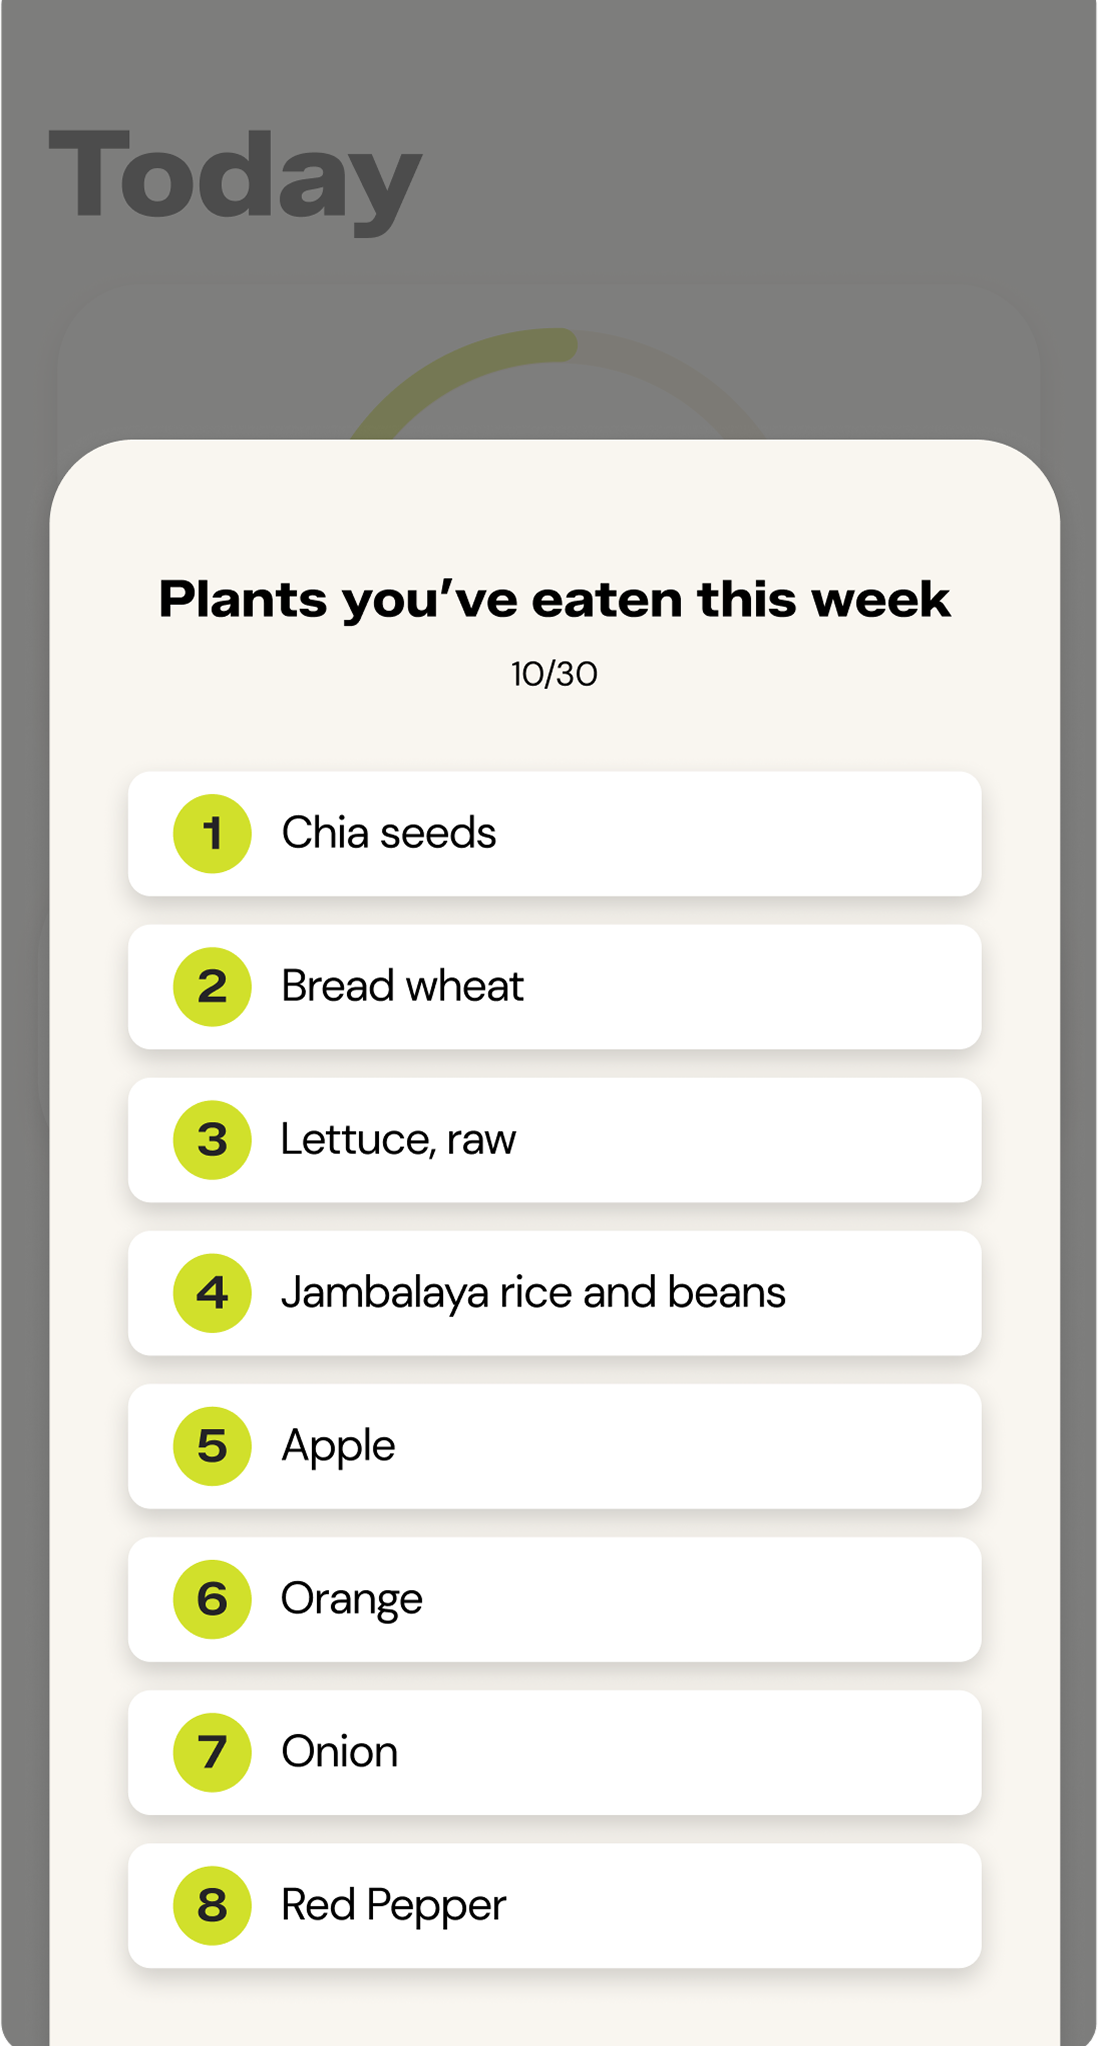
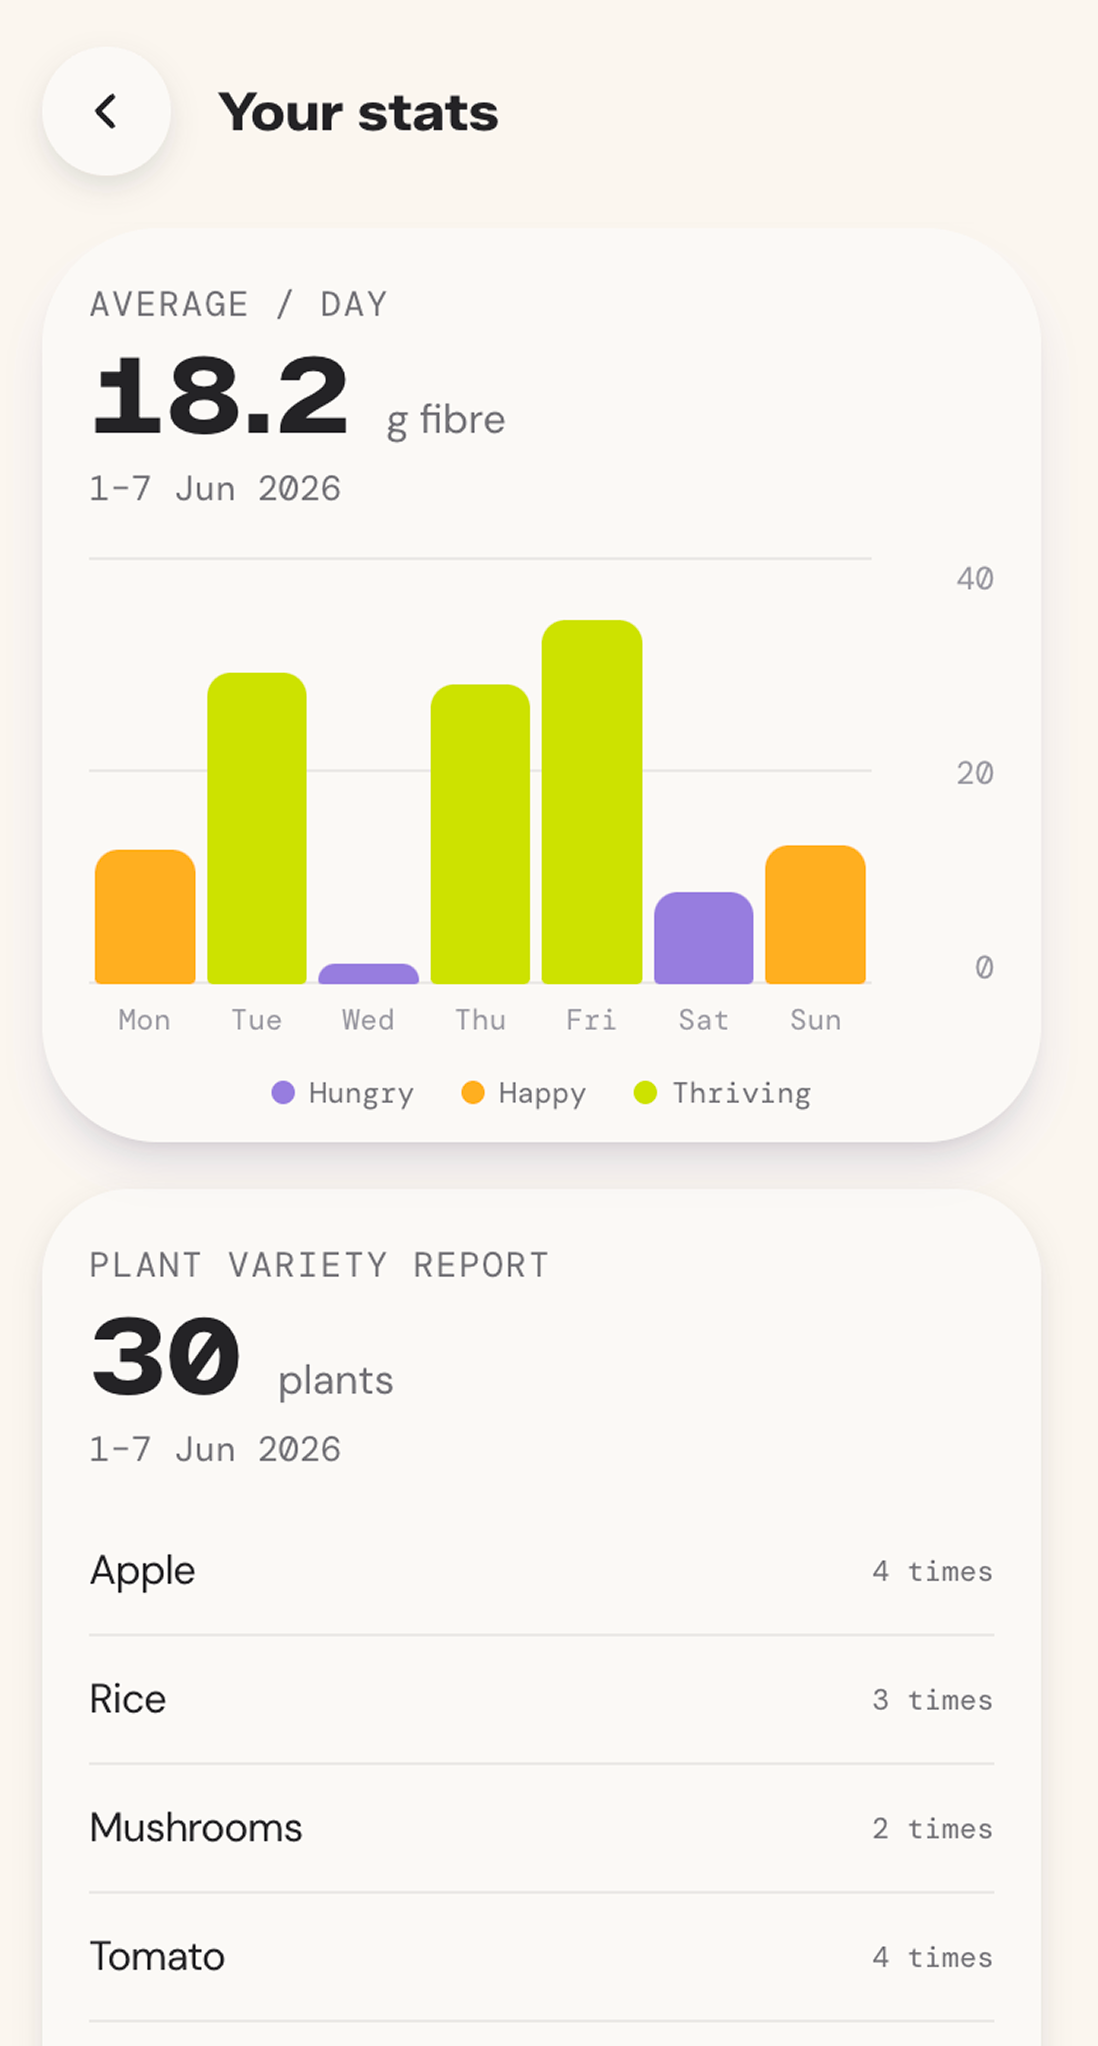
Polish button hover, fibre-happy timing, and how-it-works phone images.
Replace the jumpy button flip with a smoother label slide and microbiome cursor on hover, speed up the purple-to-orange Muchi swap to 2s, and ship updated phone mockup assets.

diff --git a/styles.css b/styles.css
@@ -252,44 +252,48 @@ main h6 {
   opacity: 0;
 }
 
+.muchi-btn {
+  cursor: pointer;
+}
+
+.muchi-btn:hover,
+.muchi-btn:focus-visible {
+  cursor: url("images/cursor-microbiome.png") 32 29, pointer;
+}
+
 .muchi-btn-label {
   position: relative;
-  display: inline-block;
+  display: inline-grid;
   height: 28px;
   overflow: hidden;
   line-height: 28px;
-  perspective: 400px;
 }
 
 .muchi-btn-label::before,
 .muchi-btn-label::after {
+  grid-area: 1 / 1;
   content: attr(data-text);
-  display: block;
   height: 28px;
   line-height: 28px;
-  transform-origin: center bottom;
-  transition: transform 0.58s ease, opacity 0.58s ease;
+  transition:
+    transform 0.55s cubic-bezier(0.22, 1, 0.36, 1),
+    opacity 0.45s cubic-bezier(0.22, 1, 0.36, 1);
 }
 
 .muchi-btn-label::after {
-  position: absolute;
-  left: 0;
-  top: 100%;
-  width: 100%;
-  transform: rotateX(-90deg);
+  transform: translateY(110%);
   opacity: 0;
 }
 
 .muchi-btn:hover .muchi-btn-label::before,
 .muchi-btn:focus-visible .muchi-btn-label::before {
-  transform: rotateX(90deg);
+  transform: translateY(-110%);
   opacity: 0;
 }
 
 .muchi-btn:hover .muchi-btn-label::after,
 .muchi-btn:focus-visible .muchi-btn-label::after {
-  top: 0;
-  transform: rotateX(0deg);
+  transform: translateY(0);
   opacity: 1;
 }
 
@@ -305,7 +309,6 @@ main h6 {
   .muchi-btn:focus-visible .muchi-btn-label::after {
     transform: none;
     opacity: 1;
-    top: auto;
   }
 
   .muchi-btn:hover .muchi-btn-label::after,

diff --git a/script.js b/script.js
@@ -366,6 +366,8 @@ const FIBRE_HAPPY_MUCHI_FRAMES = [
   "images/green-happy.png"
 ];
 
+const FIBRE_HAPPY_SWAP_MS = 2000;
+
 function setFibreHappyMuchiFrame(muchi, frameIndex) {
   muchi.src = FIBRE_HAPPY_MUCHI_FRAMES[frameIndex];
   muchi.classList.toggle("is-happy", frameIndex === 2);
@@ -402,12 +404,12 @@ function setupFibreHappySection() {
     timers.push(
       setTimeout(() => {
         setFibreHappyMuchiFrame(muchi, 1);
-      }, 3000)
+      }, FIBRE_HAPPY_SWAP_MS)
     );
     timers.push(
       setTimeout(() => {
         setFibreHappyMuchiFrame(muchi, 2);
-      }, 6000)
+      }, FIBRE_HAPPY_SWAP_MS * 2)
     );
   };
 